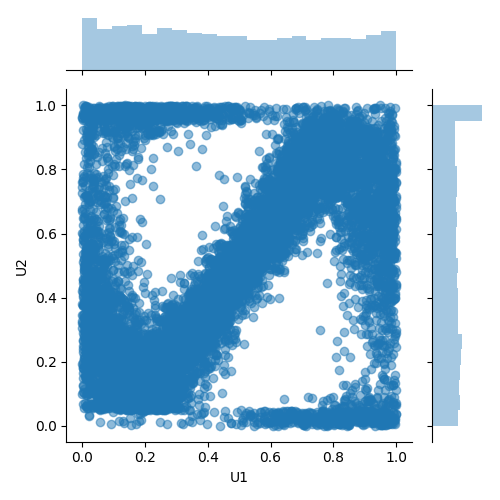
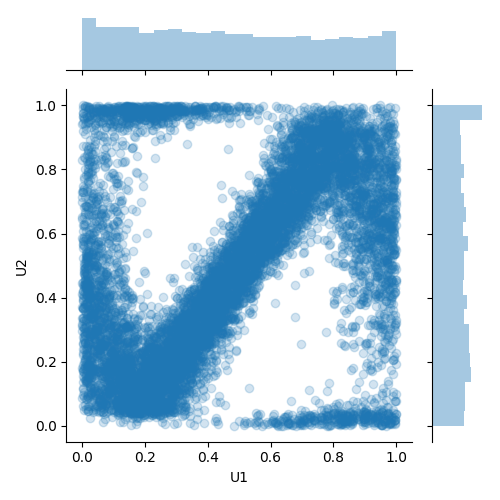
minor updates

diff --git a/copula/toy_main.py b/copula/toy_main.py
@@ -18,7 +18,7 @@ def get_args(debug):
     parser.add_argument('--seed', type=int, default=1, 
                         help='seed for repeatable results')
     
-    parser.add_argument('--grid_points', type=int, default=21, 
+    parser.add_argument('--grid_points', type=int, default=51, 
                         help='Number of points to approximate conditional distribution in Gibbs sampling')
     parser.add_argument('--data_dim', default=2,
                         help='d-dimension')
@@ -37,7 +37,7 @@ def get_args(debug):
 #%%
 def main():
     #%%
-    config = vars(get_args(debug=True)) # default configuration
+    config = vars(get_args(debug=False)) # default configuration
     config["cuda"] = torch.cuda.is_available()
     device = torch.device('cuda:0') if torch.cuda.is_available() else torch.device('cpu')
 
@@ -47,7 +47,7 @@ def main():
         torch.cuda.manual_seed(config["seed"])
     #%%
     """data generation"""
-    n = 10000
+    n = 10000 # the number of data samples
     sigma = 0.1
     t = torch.randn(n, 1)
     x = torch.cat(
@@ -73,10 +73,10 @@ def main():
     """visualization"""
     fig, ax = plt.subplots(1, 2, figsize=(8, 4))
     ax[0].scatter(pseudo[:, 0], pseudo[:, 1],
-                alpha=0.5)
+                alpha=0.2)
     ax[0].set_title('Ground-Truth', fontsize=15)
     ax[1].scatter(uv_samples[:, 0], uv_samples[:, 1],
-                alpha=0.5)
+                alpha=0.2)
     ax[1].set_title('NCE', fontsize=15)
     plt.tight_layout()
     plt.savefig('./assets/toy_sampled.png')
@@ -89,7 +89,7 @@ def main():
     )
     sns.jointplot(
         x="U1", y="U2",
-        alpha=0.5,
+        alpha=0.2,
         data=df_samples,
         height=5);
     plt.tight_layout()
